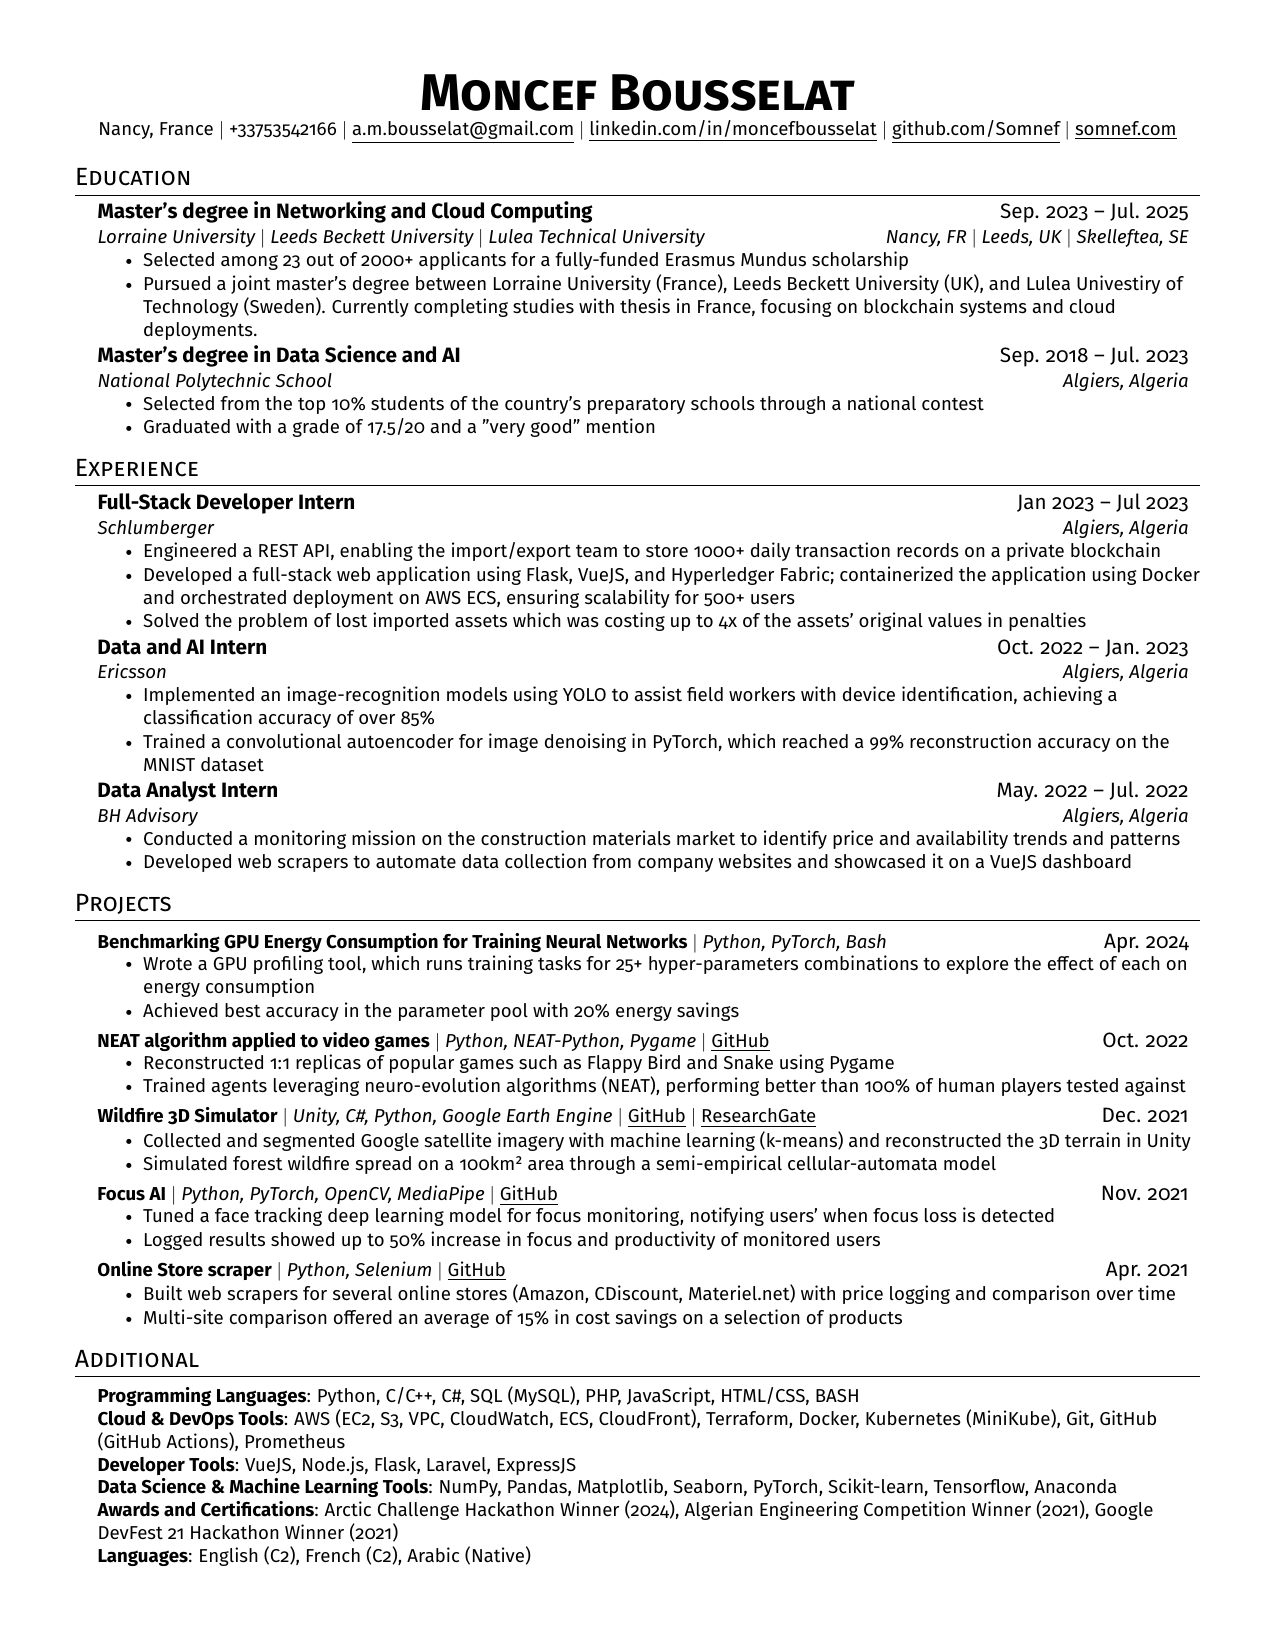
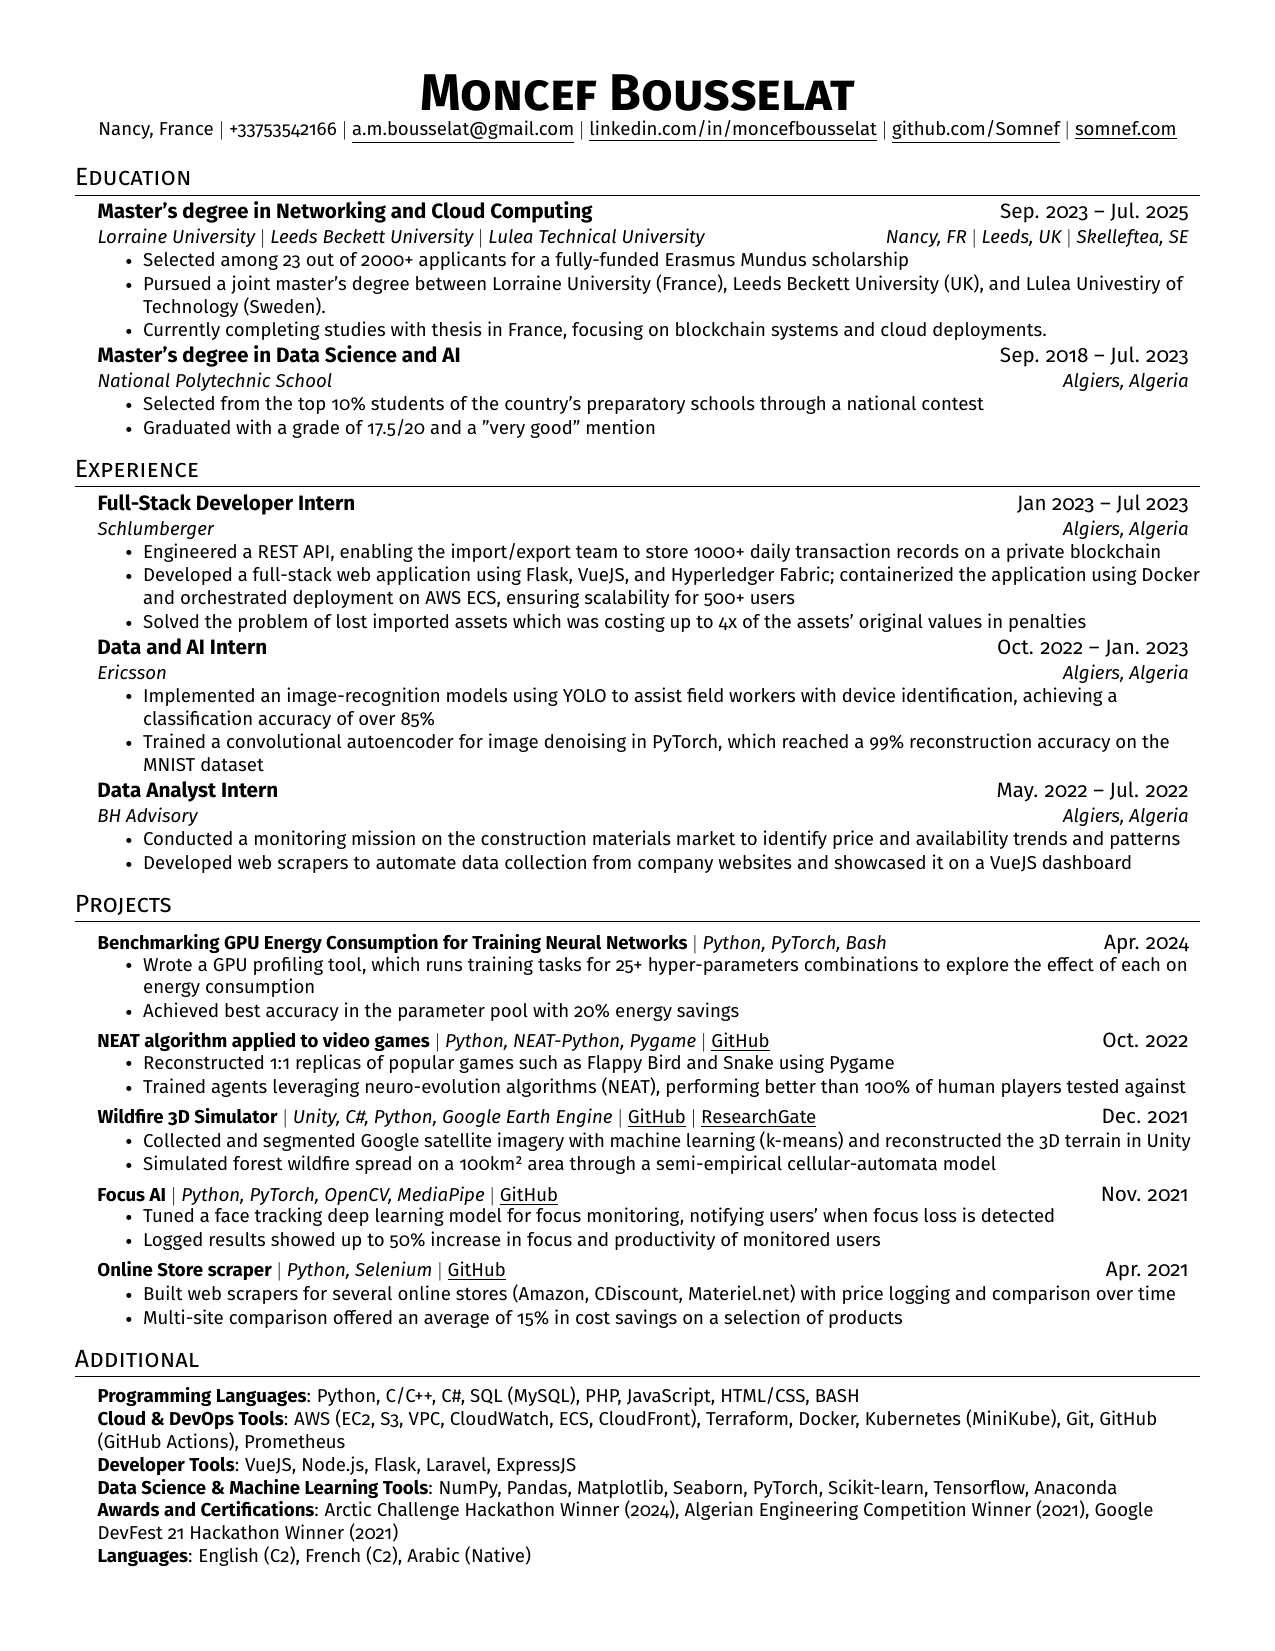
Auto-update: 2025-04-16 21:56:15

diff --git a/english-cloud/english-cloud.tex b/english-cloud/english-cloud.tex
@@ -131,7 +131,8 @@
         {Lorraine University $|$ Leeds Beckett University $|$ Lulea Technical University}{Nancy, FR $|$ Leeds, UK $|$ Skelleftea, SE}
             \resumeItemListStart
                 \resumeItem{Selected among 23 out of 2000+ applicants for a fully-funded Erasmus Mundus scholarship}
-                \resumeItem{Pursued a joint master's degree between Lorraine University (France), Leeds Beckett University (UK), and Lulea Univestiry of Technology (Sweden). Currently completing studies with thesis in France, focusing on blockchain systems and cloud deployments.}
+                \resumeItem{Pursued a joint master's degree between Lorraine University (France), Leeds Beckett University (UK), and Lulea Univestiry of Technology (Sweden).}
+                \resumeItem{Currently completing studies with thesis in France, focusing on blockchain systems and cloud deployments.}
                 % \resumeItem{Relevant coursework: Cloud Services, Distributed Systems, Data Science \& AI, Intelligent Systems \& Robotics, Internet of Things, Advanced Wireless Networks, Systems Engineering, Networking, Quality of Service and Experience }
             \resumeItemListEnd
       

diff --git a/english-dsai/english-dsai.tex b/english-dsai/english-dsai.tex
@@ -131,7 +131,8 @@
         {Lorraine University $|$ Leeds Beckett University $|$ Lulea Technical University}{Nancy, FR $|$ Leeds, UK $|$ Skelleftea, SE}
             \resumeItemListStart
                 \resumeItem{Selected among 23 out of 2000+ applicants for a fully-funded Erasmus Mundus scholarship}
-                \resumeItem{Pursued a joint master's degree between Lorraine University (France), Leeds Beckett University (UK), and Lulea Univestiry of Technology (Sweden). Currently completing studies with thesis in France, focusing on blockchain systems and cloud deployments.}
+                \resumeItem{Pursued a joint master's degree between Lorraine University (France), Leeds Beckett University (UK), and Lulea Univestiry of Technology (Sweden).}
+                \resumeItem{Currently completing studies with thesis in France, focusing on blockchain systems and cloud deployments.}
                 % \resumeItem{Relevant coursework: Cloud Services, Distributed Systems, Data Science \& AI, Intelligent Systems \& Robotics, Internet of Things, Advanced Wireless Networks, Systems Engineering, Networking, Quality of Service and Experience }
             \resumeItemListEnd
       

diff --git a/english-full/english-full.tex b/english-full/english-full.tex
@@ -131,7 +131,8 @@
         {Lorraine University $|$ Leeds Beckett University $|$ Lulea Technical University}{Nancy, FR $|$ Leeds, UK $|$ Skelleftea, SE}
             \resumeItemListStart
                 \resumeItem{Selected among 23 out of 2000+ applicants for a fully-funded Erasmus Mundus scholarship}
-                \resumeItem{Pursued a joint master's degree between Lorraine University (France), Leeds Beckett University (UK), and Lulea Univestiry of Technology (Sweden). Currently completing studies with thesis in France, focusing on blockchain systems and cloud deployments.}
+                \resumeItem{Pursued a joint master's degree between Lorraine University (France), Leeds Beckett University (UK), and Lulea Univestiry of Technology (Sweden).}
+                \resumeItem{Currently completing studies with thesis in France, focusing on blockchain systems and cloud deployments.}
                 % \resumeItem{Relevant coursework: Cloud Services, Distributed Systems, Data Science \& AI, Intelligent Systems \& Robotics, Internet of Things, Advanced Wireless Networks, Systems Engineering, Networking, Quality of Service and Experience }
             \resumeItemListEnd
       
